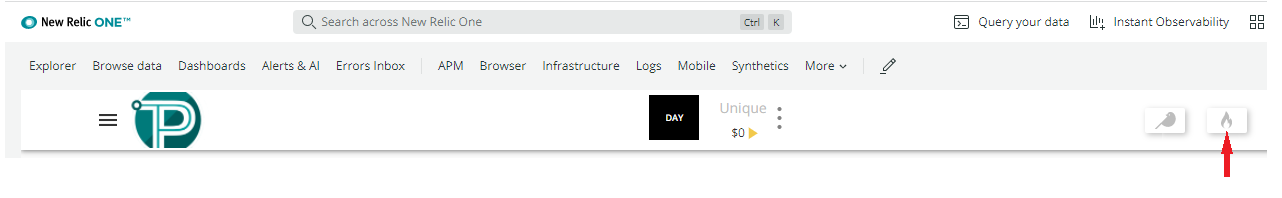
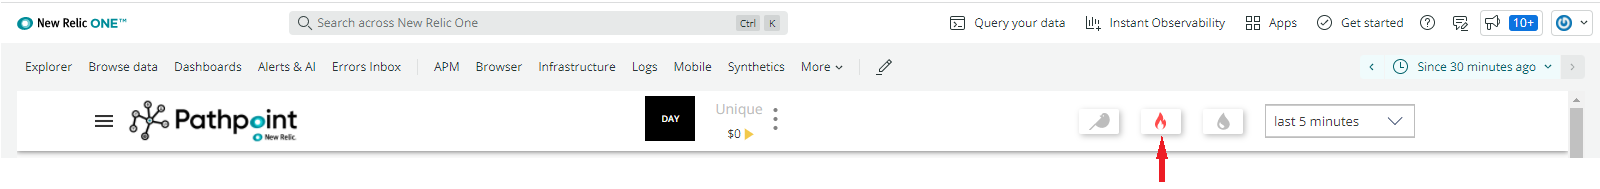
19

diff --git a/docs/user_manual/v1.5.5/README.md b/docs/user_manual/v1.5.5/README.md
@@ -696,11 +696,11 @@ Please note that when you are running the Pathpoint background job, the signals 
 Return to top of [Index](#Index)
 ### <a id="Flame_Filter"></a>Flame Filter ###
 
-The Flame filter will highlight the most problematic “Steps and Touchpoints” with a configurable time window and percentile threshold. When you use this filter, you will see the worst Touchpoints, as well the ones that are not behaving well, like for instance the ones that are not meeting the threshold as the percentage is concern. 
+The Flame filter will highlight the most problematic “Steps and Touchpoints” with a configurable time window and percentile threshold. When you use this filter, you will see the worst Touchpoints (the status of the Touchpoint will turn red), as well the ones that are not behaving well (the status of the Touchpoint will turn green), like for instance the ones that are not meeting the threshold as the percentage is concern. 
 
 ![image](screenshots/flame2.png)
 
-To activate it, just click on the Flame Symbol, which now changes it color, to a reddish flame. On the Pop Up window that opens up, click on "Continue" to activate this filter.
+To activate it, just click on the Flame Symbol, which now changes its color, to a reddish flame. On the Pop Up window that opens up, click on "Continue" to activate this filter.
 
 ![image](screenshots/flame3.png)
 
@@ -712,10 +712,15 @@ Return to top of [Index](#Index)
 
 Function: 
 
- 
-Highlights Steps with Most Drops (Session Breaks or Abandonment) 
+ Highlights Steps with Most Drops (Session Breaks or Abandonment) 
+
+ ![image](screenshots/drop1.png)
+
+ To activate it, just click on the tear-drop Symbol, which now changes its color, to black. 
 
 Displays a Total Drop count per Stage
+
+
 Calculates the order or transaction loss by the drops
 
 
